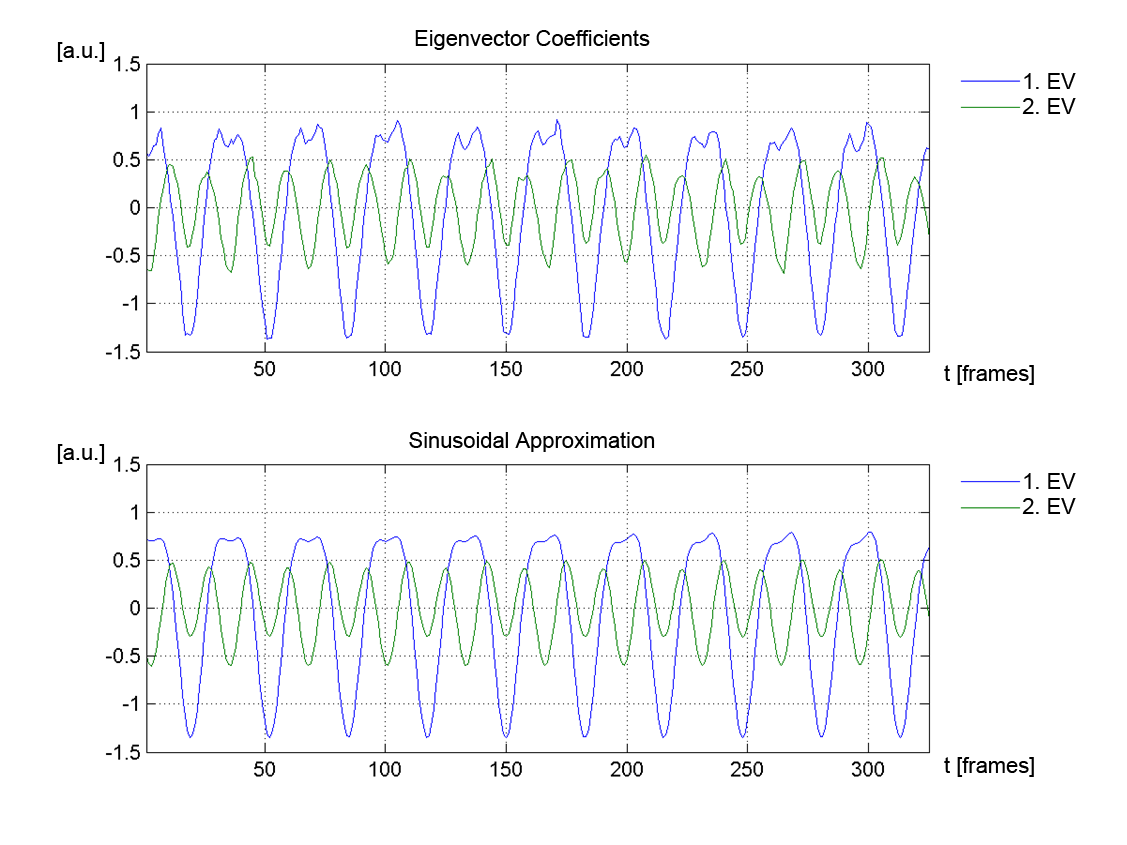
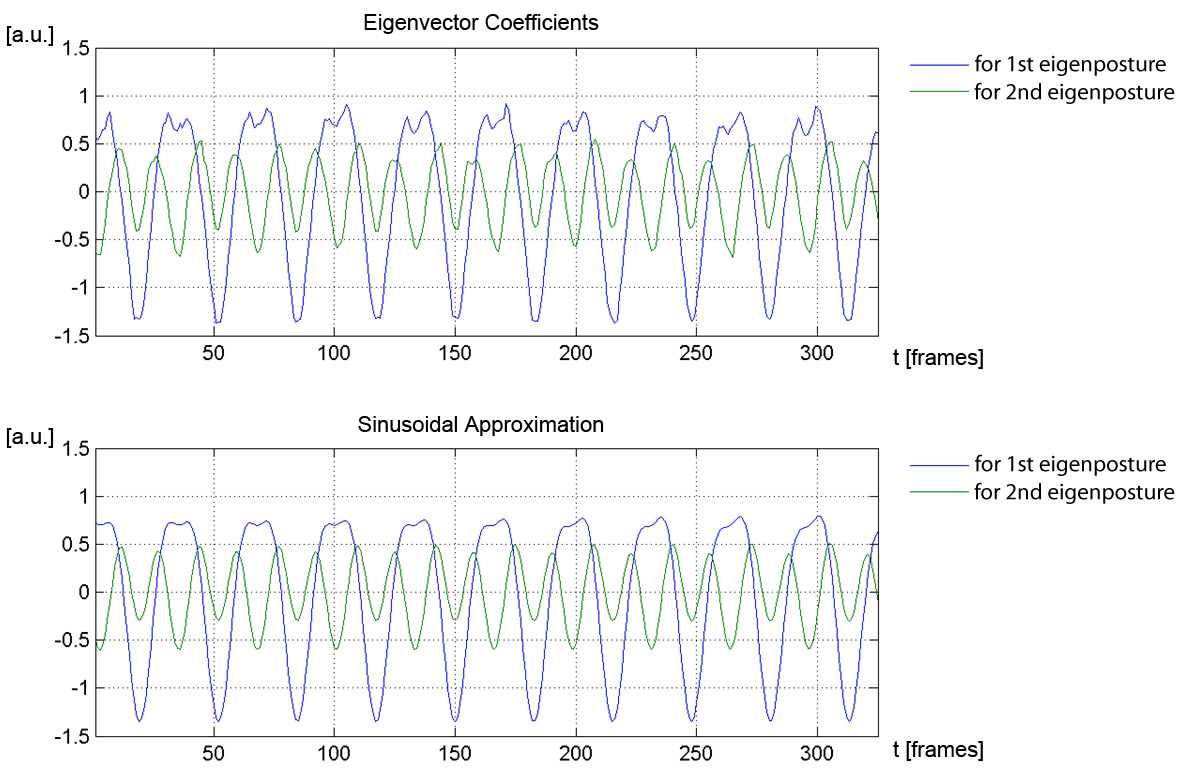
letzte Aenderungen

diff --git a/doc.tex b/doc.tex
@@ -200,7 +200,7 @@ The right arm moves the same way as the left arm does, except that it is mirrore
 The same goes for the legs.
 
 Therefore we hoped that the dimensionality of the postures could be drastically reduced without losing much of the information within the data using principal component analysis (henceforth referred to as PCA).
-Basically, what the PCA does is to rotate and move the 48 dimensional Cartesian coordinate system in which every possible three-dimensional 16-joint-skeleton posture can be represented as one point, so that for all n $\in \left\{1, ..., 48\right\}$ the first n axes account for as much as possible of the variance of the postures of one subject's jumping motion.
+Basically, what the PCA does is to rotate and move the 48 dimensional cartesian coordinate system in which every possible three-dimensional 16-joint-skeleton posture can be represented as one point, so that for all n $\in \left\{1, ..., 48\right\}$ the first n axes account for as much as possible of the variance of the postures of one subject's jumping motion.
 The vectors that represent the axes of the transformed coordinate system are called the principal components.
 The origin of this coordinate system is the average of all postures, which we are going to refer to as average posture $p_{0}$.
 The principal components are the eigenvectors of the covariance matrix of the skeleton data set.
@@ -217,7 +217,7 @@ Given the eigenpostures, the coefficients and the average posture $p_{0}$ any po
 Since the first n eigenpostures account for as much as possible of the variance of the postures, a posture can be approximated using only the first n eigenpostures:
 
 \begin{align}
-	p = p_{0} + \sum^{n}_{i = 1} c_{i} p_{i} \label{eq:approxPosture}
+	p = p_{0} + \sum^{n}_{i = 1} c_{i} p_{i} \label{eq:approxPosture_01}
 \end{align}
 
 where p is the approximation of the posture.
@@ -225,7 +225,7 @@ where p is the approximation of the posture.
 In figure \ref{fig:jumpingJackAverageEigenvalues} and \ref{fig:ropeSkippingAverageEigenvalues} you can see that for jumping jack the first two eigenpostures already cover on average more than 95\% of the total variance. With rope skipping it is more than 85\%.
 An explanation for PCA seeming to work significantly worse with rope skipping than with jumping jack is that rope skipping is a more three-dimensional motion than jumping jack. (Jumping jack is performed exclusively in a two-dimensional plane.)
 Therefore the reduction of dimensionality works better with jumping jack.
-For reasons explained in \ref{sinusoidalApprox} we made do with the exactness of the first two eigenpostures for jumping jack and rope skipping. Hence, in the following we will use equation \label{eq:approxPosture} with n=2.
+For reasons explained in \ref{sinusoidalApprox} we made do with the exactness of the first two eigenpostures for jumping jack and rope skipping. Hence, in the following we will use equation \ref{eq:approxPosture_01} with n=2.
 
 \begin{figure}
 		\centering
@@ -243,15 +243,15 @@ For reasons explained in \ref{sinusoidalApprox} we made do with the exactness of
 		\label{fig:ropeSkippingAverageEigenvalues}
 \end{figure}
 
-We animated dots of different colors to examine how much of the visual information about the postures is lost by omiting the last 46 eigenpostures.
-An example of a jumping jack motion is shown in figure \ref{fig:orig_pca_1}.
+To examine how much of the visual information about the postures is lost by omiting the last 46 eigenpostures, we animated dots of different colors representing the skeleton data.
+An example of such a jumping jack posture is shown in figure \ref{fig:orig_pca_1}.
 As you can see, the two dot-skeletons don't completely match, but the loss of information is minimal.
 
 \begin{figure}
 		\centering
 		\includegraphics[height=0.3\textheight]{comparison_Original_PCA.png}
 		\caption{Recorded jumping jack in comparison with the data after doing the PCA.
-		The blue dots show the recorded subject whereas the red dots show the posture calculated using only the first two eigenvectors.
+		The blue dots show the recorded subject whereas the red dots show the posture calculated using only the first two eigenpostures.
 		In the center is a comparison of how well the two eigenpostures represent the original posture.
 		}
 		\label{fig:orig_pca_1}
@@ -260,14 +260,14 @@ As you can see, the two dot-skeletons don't completely match, but the loss of in
 % Todo: Wie kommt man von der PCA auf die Coeffizienten für Sinusdarstellung (mit Formel)
 
 \subsection{Sinusoidal--Approximation of Coefficients}\label{sinusoidalApprox}
-A graphical representation of the coefficients of the first two \emph{eigenpostures} of a jumping jack motion can be seen at the top of figure \ref{fig:approx}.
-Here the blue curve represents the first coefficient of the \emph{eigenposture} and the green curve the second coefficient as functions of the time.
+A graphical representation of a jumping jack motion's first two eigenposture's coefficients over time can be seen at the top of figure \ref{fig:approx}.
+Here the blue curve represents the first coefficient of the eigenposture and the green curve the second coefficient as functions of the time.
 Apparently this graph looks similar to a sinusoidal graph.
 The reason for this characteristic is that our jumping motions are cyclic motions.
-Therefore the coefficients of our \emph{eigenpostures} can be approximated using sinusoidal functions.
+Therefore the coefficients of our eigenpostures can be approximated using sinusoidal functions.
 This is done similar to the approach of \cite{origin}.
-Hereby a sine function is used to describe each of the coefficients of the \emph{eigenposture}.
-The approximation is done using MATLAB's integrated \emph{fit} function, which finds for each \emph{eigenposture} the amplitude, the frequency and phase so that the sine function defined by these parameters fits best to the corresponding coefficients.
+Hereby a sine function is used to describe each of the coefficients of the eigenposture.
+The approximation is done using MATLAB's integrated \emph{fit} function, which finds for each eigenposture the amplitude, the frequency and phase so that the sine function defined by these parameters fits best to the corresponding coefficients.
 The fitted graph of the example mentioned above can be seen at the bottom of figure \ref{fig:approx}.
 
 \begin{figure}
@@ -280,9 +280,9 @@ The fitted graph of the example mentioned above can be seen at the bottom of fig
 
 With the jumping jack we experienced that the frequency of the second eigenposture's coefficients is twice the frequency of the first eigenposture's coefficients.
 (This is true for all but one subject whose motion wasn't sinusoidal at all.
-We discontinued using that subject's data since it wasn't what we would consider a valid jumping jack)
+We discontinued using that subject's data since it wasn't what we would consider a valid jumping jack.)
 Therefore we only need to know the first frequency.
-We also had a closer look at the third and forth eigenpostures but since the periodicity of their coefficients had a frequency that was not always a multiple of the first eigenposture's, we decided to only use the first two eigenpostures (This goes for jumping jack \emph{and} rope skipping). 
+We also had a closer look at the third and forth eigenpostures but since the periodicity of their coefficients had a frequency that was not always a multiple of the first eigenposture's, we decided to only use the first two eigenpostures. (This goes for jumping jack \emph{and} rope skipping.) 
 
 Since the time when the recording started, is irrelevant, \cite{origin} didn't use all the phases, because the first one could be omitted if all the other phases were saved with respect to the first one.
 Another observation concerning the jumping jack helped us to omit both phases:
@@ -302,7 +302,7 @@ Here values close to zero mean a bad fit and values close to one a good fit.
 A value of one would be an exact fit with no information lost.
 The goodness of the fit shown in figure \ref{fig:approx} is on average 0.90225 for the first and 0.80946 for the second coefficient.
 This is a rather good result considering that we used a motion of ten full cycles as input and every difference in each of the cycles impairs the approximation.
-Also the approximation goodness of this example is close to the average goodness of all our jumping jack \emph{eigenpostures}.
+Also the approximation goodness of this example is close to the average goodness of all our jumping jack eigenpostures.
 This also counts for the following examples.
 
 Also when looking back at our jumping jack example in figure \ref{fig:approx} we can see that especially the first coefficient is rather badly approximated on the top of the wave.
@@ -327,7 +327,7 @@ The approximated posture p(t) at time t can now be reconstructed using:
 	\label{eq:approxPostureSin2}
 \end{align}
 
-Where all $\phi_{i,j}$ are with respect to $\phi_{1,1}$ and $\omega$ is $\omega_{1,1}$, all other parameters as they were described before.
+Where all $\phi_{i,j}$ are with respect to $\phi_{1,1}$ and $\omega$ is $\omega_{1,1}$, all other parameters are the same as described before.
 
 \begin{figure}
 		\centering
@@ -342,7 +342,7 @@ Where all $\phi_{i,j}$ are with respect to $\phi_{1,1}$ and $\omega$ is $\omega_
 Here the average \emph{rsquare} values are 0.98515 for the first and 0.9366 for the second coefficient and thus represents a better model of our jumping jack motion.
 
 However, we had to sort out a number of subjects, whose data didn't fit into the described pattern.
-Especially the coefficients of the second eigenposture sometimes were hard to discribe using the sum of two sine functions. Therefore we used a third approach to describe a jumping jack motion.
+Especially the coefficients of the second eigenposture sometimes were hard to describe using the sum of two sine functions. Therefore we used a third approach to describe a jumping jack motion.
 In this approach we used two sine functions to describe the coefficients of the first eigenposture and one sine function for the second eigenposture's coefficients.
 Any approximated posture p(t) at time t can now be reconstructed as follows:
 
@@ -356,11 +356,18 @@ Any approximated posture p(t) at time t can now be reconstructed as follows:
 
 Where $a_{2}$ is the amplitude of the sine function describing the second eigenposture's coefficients and $\phi_{2}$ its phase with respect to $\phi_{1,1}$. All other parameters are the same as described above.
 
-With rope skipping, as seen in figure \ref{fig:approx3}, the only solid way to descibe the coefficients of either eigenposture was a single sine function.
+With rope skipping, as seen in figure \ref{fig:approx3}, the only solid way to describe the coefficients of either eigenposture was a single sine function.
 Even though figure \ref{fig:approx3} shows the same effect as the jumping jack motion did concerning the phase difference of the two sine functions, not all the recorded rope skipping motions showed it.
 Not even the frequencies had a constant ratio.
-(Naturally, the one frequency was a multiple of the other, but it wasn't always the double)
-Therefore a very general set of parameters - two amplitudes $a_{1}$, $a_{2}$, two frequencies $\omega_{1}$, $\omega_{2}$ and one phase $\phi$ with respect to the other phase - was used to describe the coefficients.
+(Naturally, the one frequency was a multiple of the other, but it wasn't always the double.)
+Therefore a very general set of parameters - two amplitudes $a_{1}$, $a_{2}$, two frequencies $\omega_{1}$, $\omega_{2}$ and one phase $\phi$ with respect to the other phase - was used to describe the coefficients. The corresponding equation is:
+
+\begin{align}
+	\begin{aligned}
+		p(t) = p_{0} + p_{1} \cdot a_{1} \cdot sin(\omega_{1} t) + p_{2} \cdot a_{2} \cdot sin(\omega_{2} t + \phi)
+	\end{aligned}
+	\label{eq:approxPostureSinRope}
+\end{align}
 
 The average \emph{rsquare} values here are 0.98886 and 0.84932 for the two coefficients.
 
@@ -379,10 +386,10 @@ The result can be seen in figure \ref{fig:sammel}.
 \begin{figure}
 	\centering
 	\includegraphics[width=15cm]{sammel.png}
-	\caption{Centering effect on coefficients. The top left graph shows the sinusoidal approximation a recorded motion without any centering.
-	Here the second eigenvector's coefficients show a linear noncyclic behavior over the length of the recording.
-	Also more eigenvalues of the PCA result are needed to cover most variance.
-	Centering the data the negative side-effects can be eliminated and the second eigenvector's wave behaves cyclic as we would have expected.}
+	\caption{Centering effect on coefficients. The top left graph shows the sinusoidal approximation of a recorded motion without any centering.
+	Here the second eigenposture's coefficients show a linear noncyclic behavior over the length of the recording.
+	Also more eigenpostures of the PCA result are needed to cover most variance.
+	Centering the data the negative side-effects can be eliminated and the second eigenposture's wave behaves cyclic as we would have expected.}
 	\label{fig:sammel}
 \end{figure}
 
@@ -401,35 +408,34 @@ In \cite{origin} the subject's data was normalized according to the subject's he
 		\label{fig:orig_pca}
 \end{figure}
 
-Having documented how much variance is lost using only the first two eigenvalues of the PCA and fitting our coefficients with a sine function, we now take a look at how much these errors affect the actual motion.
+Having documented how much variance is lost using only the first two eigenpostures of the PCA and fitting our coefficients with a sine function, we took a look at how much these errors affect the motion visually.
 As before, we animated dot-skeletons to demonstrate the visible loss of information.
-The step from the PCA to the fit is shown at the top and a comparison between the original data and the final data is show at the bottom of the figure.
+The step from the PCA to the fit is shown at the top and a comparison between the original data and the final data is shown at the bottom of the figure.
 Looking at these comparison figures in an animated form the lack of information can be seen for example in delayed hand and foot joints.
 Another cause for this kind of error is the fact that test subjects cannot jump in the very same way over multiple cycles resulting in small correlation when fitting the motion to a sine function.
 In summary the loss of information coming from the PCA and fit has minimal impact in the visual representation and recognizability of the motion and thus is acceptable for our cause.
 
 
-\subsection{Creation of Motion Vectors}
-To create a motion vector, which is to describe the full motion cycle using our sinusoidal approximation, we need the average posture created earlier and the first two \emph{eigenpostures} including the sinusoidal approximation of their coefficients.
-However due to the centering mentioned earlier we don't need all three positional values of our skeleton points, but can ignore X and Y values for the hip.
-Therefore we have three positional values X,Y,Z for 15 skeleton points and only one additional for the hip resulting in 46 values for each posture.
-To describe the sinusoidal approximation we use four different setups:
+\subsection{Creation of Motionvectors}
+To create a motionvector, which is to describe the full motion using our sinusoidal approximation, we need the average posture created earlier and the first two eigenpostures including the sinusoidal approximation of their coefficients.
+However due to the centering mentioned earlier we don't need all three positional values of our skeleton points, but can ignore X and Y values for the hip (since they are always zero).
+Therefore we have three positional values X, Y, Z for 15 skeleton points and only one additional for the hip resulting in 46 values for each posture.
+To describe the sinusoidal approximation we used the four different setups as described above:
 
-When using one sine wave for each \emph{eigenposture} and the jumping jack motion, it is sufficient to track the wave's amplitude for each posture and one frequency since the second wave's frequency is exactly twice the first one's for all test subjects.
-Also, as the waves are in phase for all test subjects we did not have to track the phases.
-This results in motion vector of 141 dimensions to describe the jumping jack motion.
+When using one sine wave for each eigenposture and the jumping jack motion, it is sufficient to track the wave's amplitude for each posture and one frequency since the second wave's frequency is exactly twice the first one's for all test subjects.
+Also, for reasons explained above, we did not have to track the phases.
+This results in a motionvector of 141 dimensions to describe the jumping jack motion.
 
-When using two sine waves for each of the \emph{eigenpostures} and the jumping jack motion, we need to track the four wave's amplitudes the frequency and three phases relative to the first wave's phase.
-This results in a 146 dimensional motion vector.
+When using two sine waves for each of the eigenpostures and the jumping jack motion, we need to track the four wave's amplitudes the frequency and three phases relative to the first wave's phase.
+This results in a 146 dimensional motionvector.
 
-When using two overlapping sine waves for the first and one sine wave for the second \emph{eigenposture} of the jumping jack motion, we need to track the three wave's amplitudes the frequency and two phases relative to the first waves's phase.
-This results in a 144 dimensional motion vector.
+When using two overlapping sine waves for the first and one sine wave for the second eigenposture of the jumping jack motion, we need to track the three wave's amplitudes the frequency and two phases relative to the first waves's phase.
+This results in a 144 dimensional motionvector.
 The reason for using the extra model is explained in section \ref{sec:testsubjects}.
 
 For our rope skipping motion we need the two amplitudes but also two frequencies as there is no recognizable pattern in the waves.
-It appears to be a multiple of the first frequency for some test subjects but not always the double.
 Also one phase is needed for the second wave relative to the first one.
-This results in a 143 dimensional motion vector for the rope skipping motion.
+This results in a 143 dimensional motionvector for the rope skipping motion.
 
 \subsection{Test Subjects}
 \label{sec:testsubjects}
@@ -440,18 +446,18 @@ The result is the following table .
 \begin{tabular}{l|l|c|c}
 Motion & Sine Waves & Good Test Subjects & Total Test Subjects \\
 \hline
-\multirow{3}{*}{Jumping Jack} & 1 per eigenvalue & 18 & \multirow{3}{*}{19} \\ \cline{2-3}
- & 2 for 1. eigenvalue, 1 for 2. eigenvalue  & 17 \\ \cline{2-3}
- & 2 per eigenvalue & 13 \\ \cline{2-3}
+\multirow{3}{*}{Jumping Jack} & 1 per eigenposture & 18 & \multirow{3}{*}{19} \\ \cline{2-3}
+ & 2 for 1. eigenposture, 1 for 2. eigenposture  & 17 \\ \cline{2-3}
+ & 2 per eigenposture & 13 \\ \cline{2-3}
 \hline
-Rope Skipping & 1 sine per eigenvalue & 16 & 16 \\
+Rope Skipping & 1 sine per eigenposture & 16 & 16 \\
 \end{tabular}
 \end{center}
 
 Not fitting means that for instance a frequency was not a multiple of the base frequency and thus could not be represented by the specific model.
 So for our improved approximation using two overlapping sine waves for the jumping jack motion we could not represent six of the 19 test subjects.
-In an attempt to get a better model which is still better approximated than only one sine wave per eigenvalue we tested keeping two waves for the first eigenvalue but using only one wave for the second.
-This allowed us to use 17 of the 19 test subject for our further steps.
+In an attempt to get a better model which is still better approximated than only one sine wave per eigenposture we tested keeping two waves for the first eigenposture but using only one wave for the second.
+This allowed us to use 17 of the 19 test subject for our further steps. 
 
 \section{Results}
 
